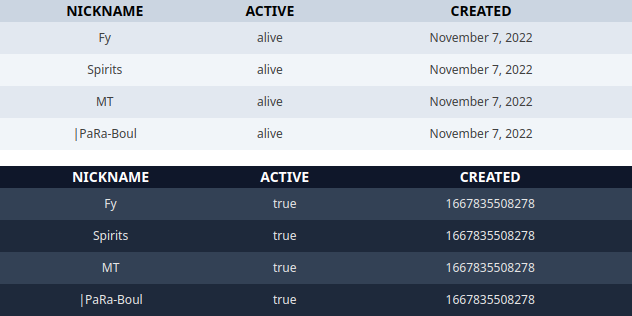
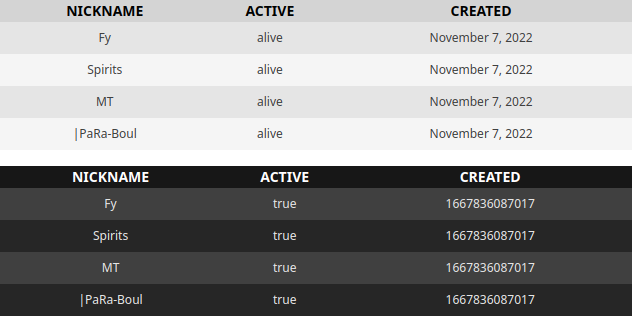
css

diff --git a/dist/fyvue.scss b/dist/fyvue.scss
@@ -248,19 +248,19 @@
   @apply bg-white;
 }
 .light .fy-datatable td {
-  @apply text-neutral-700 border-b-slate-300;
+  @apply text-neutral-700 border-b-neutral-300;
 }
 .light .fy-datatable th {
-  @apply bg-slate-300 text-black;
+  @apply bg-neutral-300 text-black;
 }
 .light .fy-datatable .div {
-  @apply bg-transparent md:bg-slate-300 text-black;
+  @apply bg-transparent md:bg-neutral-300 text-black;
 }
 .light .fy-datatable .bg-color-1 {
-  @apply bg-slate-200;
+  @apply bg-neutral-200;
 }
 .light .fy-datatable .bg-color-2 {
-  @apply bg-slate-100;
+  @apply bg-neutral-100;
 }
 
 .dark .fy-table .table-container {
@@ -276,19 +276,19 @@
   @apply bg-black;
 }
 .dark .fy-datatable td {
-  @apply text-neutral-200 border-b-slate-900;
+  @apply text-neutral-200 border-b-neutral-900;
 }
 .dark .fy-datatable th {
-  @apply bg-slate-900 text-white;
+  @apply bg-neutral-900 text-white;
 }
 .dark .fy-datatable .div {
-  @apply bg-transparent md:bg-slate-900 text-white;
+  @apply bg-transparent md:bg-neutral-900 text-white;
 }
 .dark .fy-datatable .bg-color-1 {
-  @apply bg-slate-700;
+  @apply bg-neutral-700;
 }
 .dark .fy-datatable .bg-color-2 {
-  @apply bg-slate-800;
+  @apply bg-neutral-800;
 }
 
 .btn {

diff --git a/src/components/ui/FyDatatable/FyDatatable.scss b/src/components/ui/FyDatatable/FyDatatable.scss
@@ -55,19 +55,19 @@
       @apply bg-white
     }
     td {
-      @apply text-neutral-700 border-b-slate-300 ;
+      @apply text-neutral-700 border-b-neutral-300 ;
     }
     th {
-      @apply bg-slate-300 text-black;
+      @apply bg-neutral-300 text-black;
     }
     .div {
-      @apply bg-transparent md:bg-slate-300 text-black;
+      @apply bg-transparent md:bg-neutral-300 text-black;
     }
     .bg-color-1 {
-      @apply bg-slate-200
+      @apply bg-neutral-200
     }
     .bg-color-2 {
-      @apply bg-slate-100
+      @apply bg-neutral-100
     }
   }
 }
@@ -95,19 +95,19 @@
       @apply bg-black
     }
     td {
-      @apply text-neutral-200 border-b-slate-900;
+      @apply text-neutral-200 border-b-neutral-900;
     }
     th, {
-      @apply bg-slate-900 text-white;
+      @apply bg-neutral-900 text-white;
     }
     .div {
-      @apply bg-transparent md:bg-slate-900 text-white;
+      @apply bg-transparent md:bg-neutral-900 text-white;
     }
     .bg-color-1 {
-      @apply bg-slate-700
+      @apply bg-neutral-700
     }
     .bg-color-2 {
-      @apply bg-slate-800
+      @apply bg-neutral-800
     }
   }
 }
